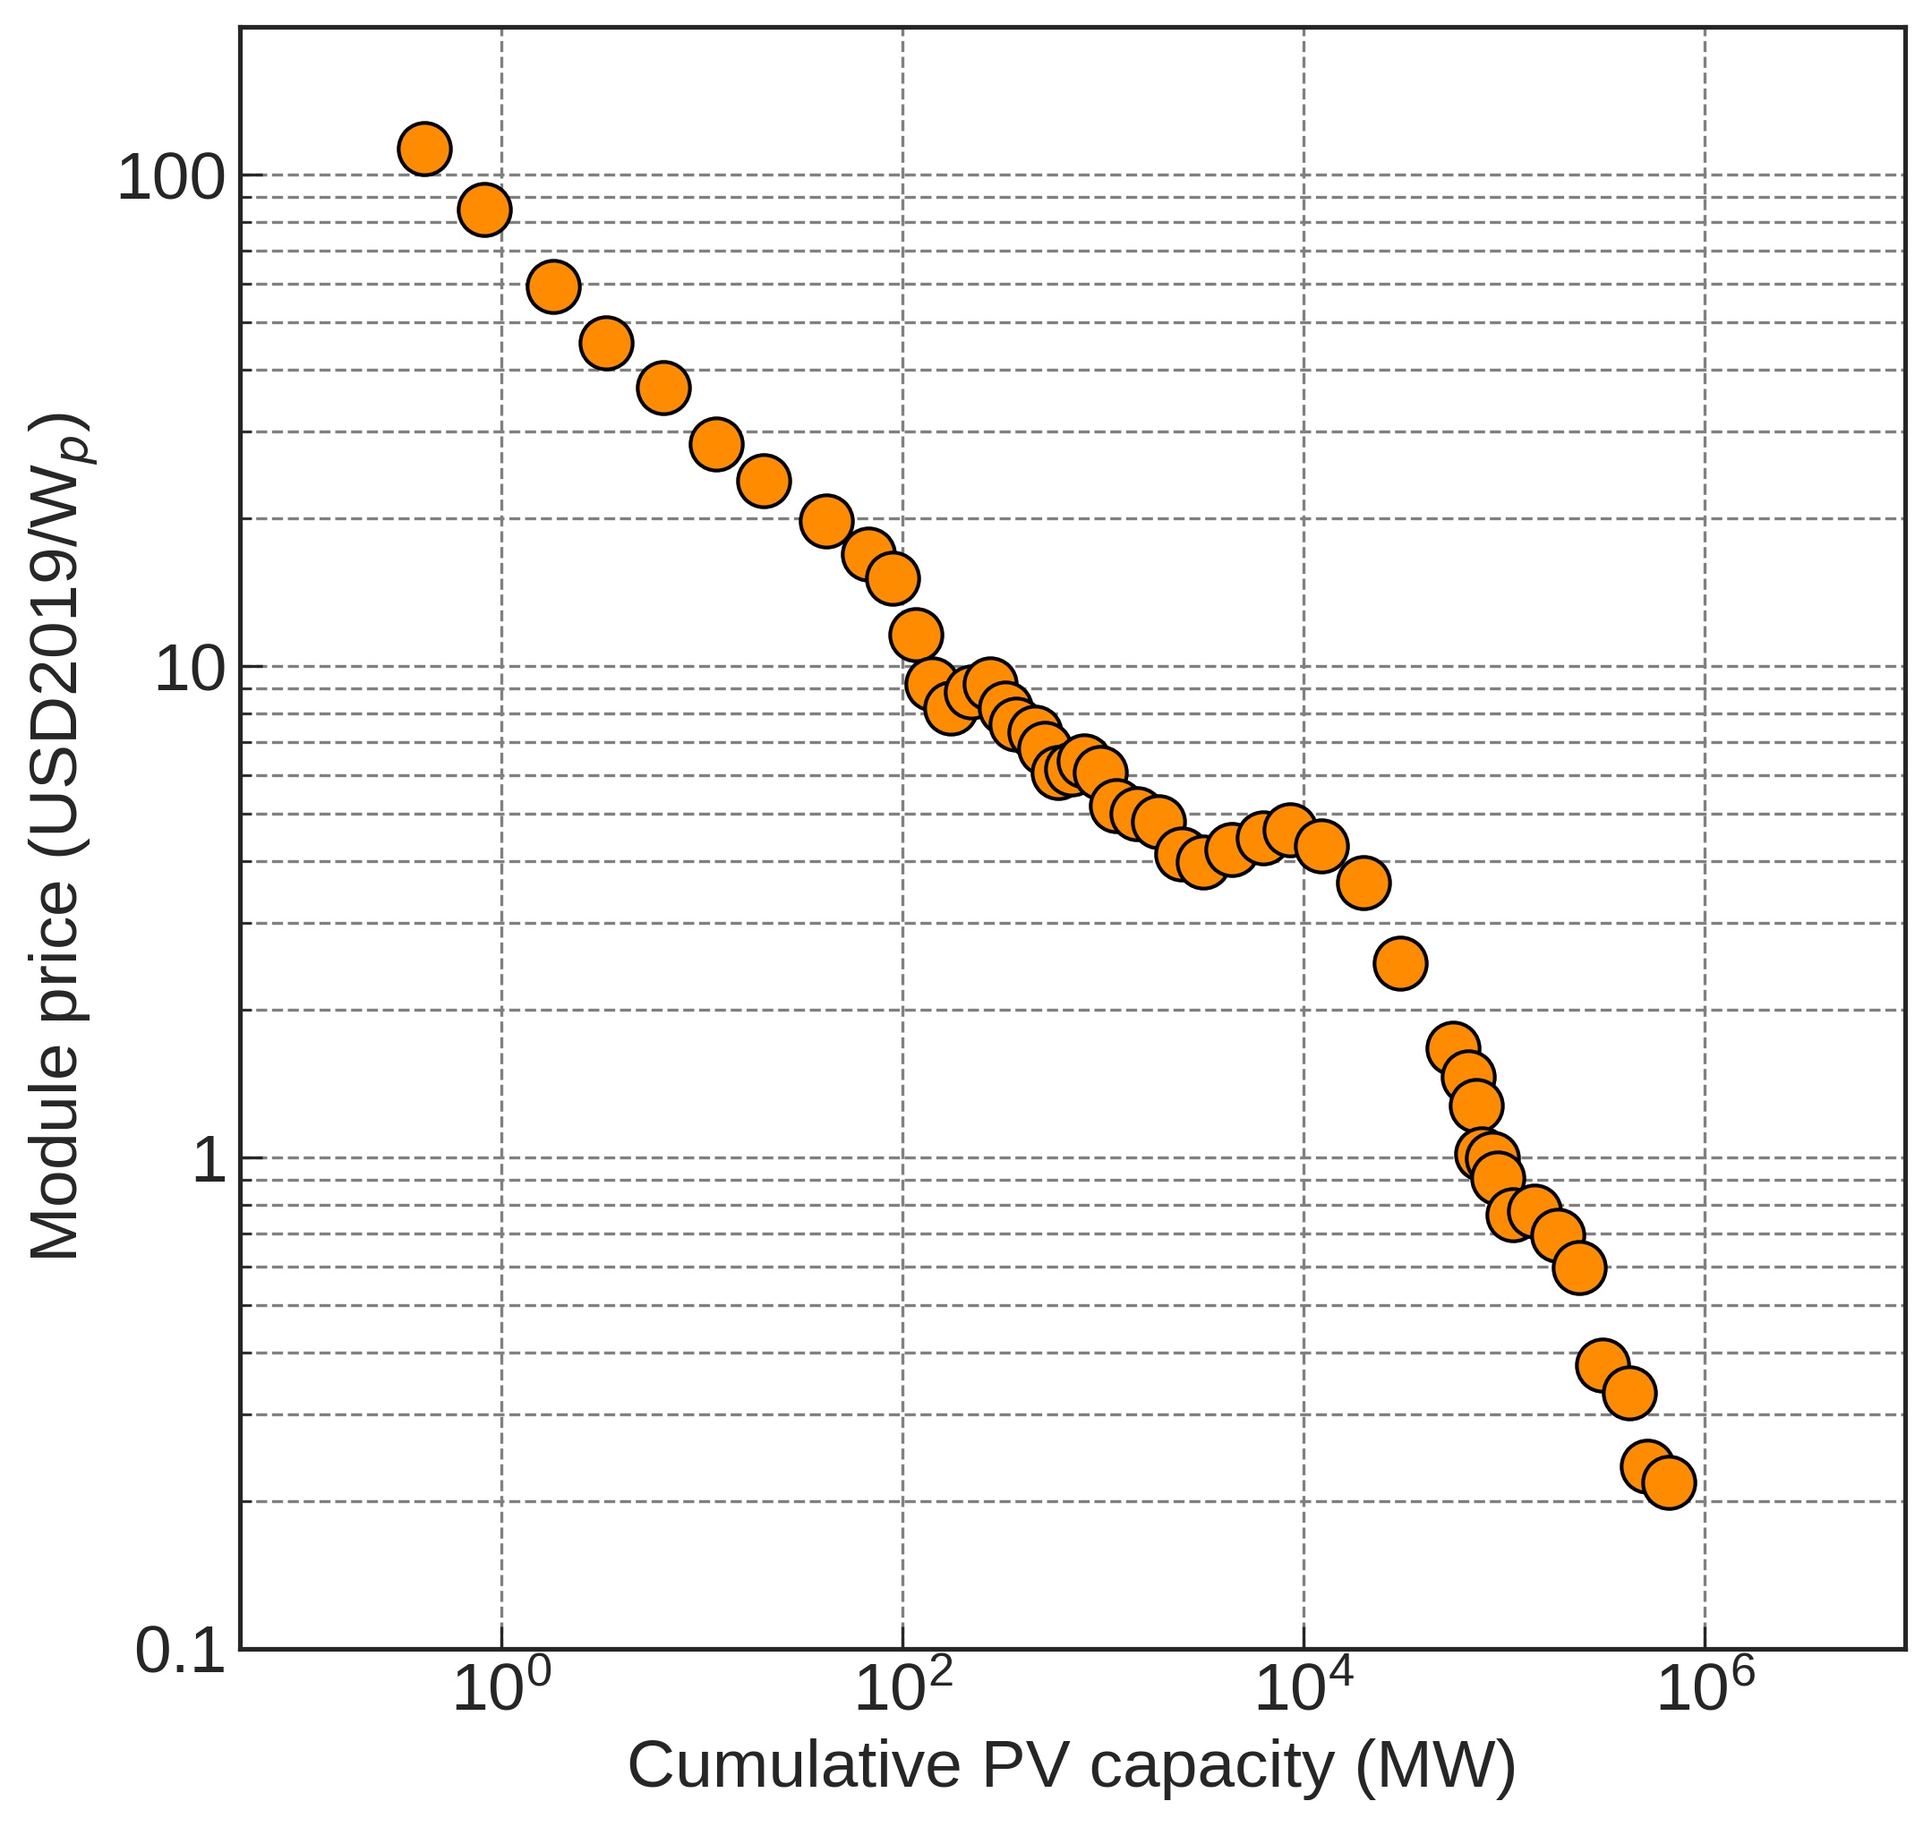
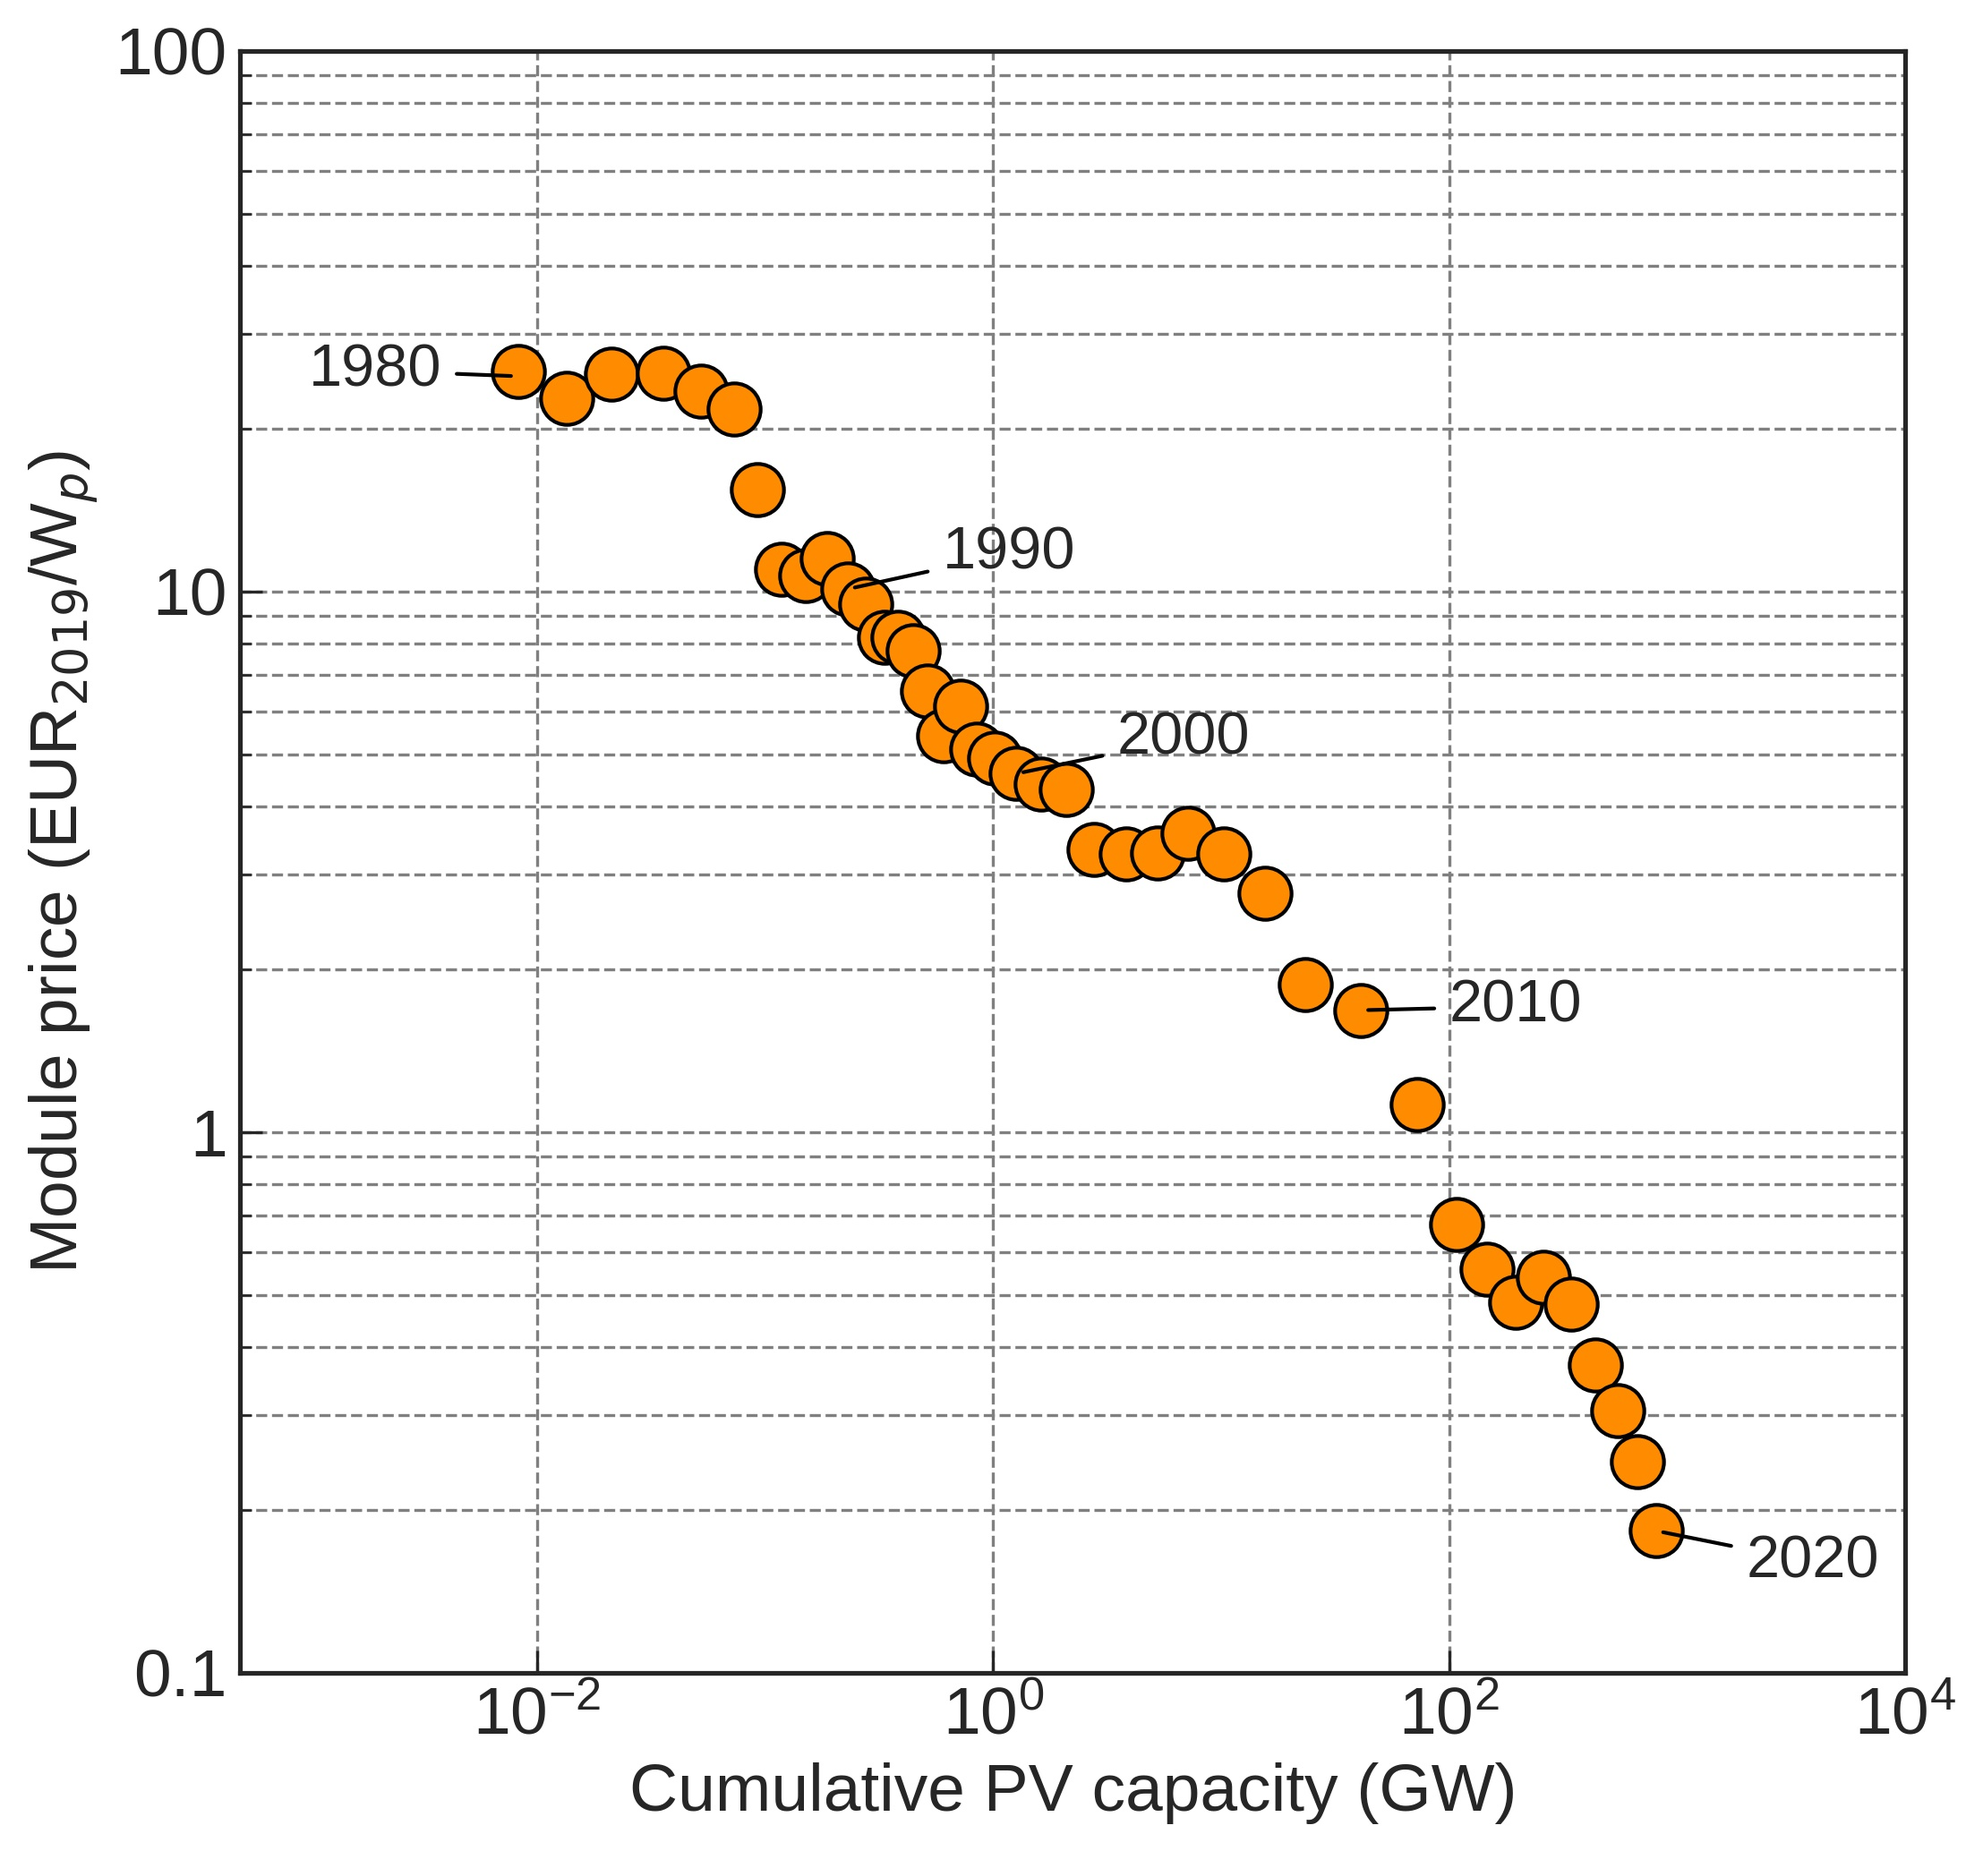
Add figures chapter 13

diff --git a/Figures/Chapter_13/learning_curve.py b/Figures/Chapter_13/learning_curve.py
@@ -21,12 +21,27 @@ ax1.loglog(cost['volume'], cost['cost'],
            marker='o', markerfacecolor=color_1,
            linewidth=0, color='black', #color_1,
            markersize=14)
-ax1.set_ylabel('Module price (USD2019/W$_p$)')
-ax1.set_xlabel('Cumulative PV capacity (MW)')
+ax1.set_ylabel('Module price (EUR$_{2019}$/W$_p$)')
+ax1.set_xlabel('Cumulative PV capacity (GW)')
 ax1.grid(color='grey', linestyle='--', axis='both', which='both')
-ax1.set_ylim(0.1,200)
-ax1.set_xlim(0.05, 10000000)
+ax1.set_ylim(0.1,30)
+ax1.set_xlim(0.0005, 10000)
 ax1.set_yticks([0.1, 1, 10, 100])
 ax1.set_yticklabels(['0.1', '1', '10', '100'])
 
+
+ax1.annotate('1980', xy=(0.0083, 25), xytext=(0.001, 24), fontsize=16,
+             arrowprops=dict(facecolor='black', arrowstyle='-'))
+
+ax1.annotate('1990', xy=(0.23, 10.1), xytext=(0.6, 11), fontsize=16,
+             arrowprops=dict(facecolor='black', arrowstyle='-'))
+
+ax1.annotate('2000', xy=(1.26, 4.6), xytext=(3.5, 5), fontsize=16,
+             arrowprops=dict(facecolor='black', arrowstyle='-'))
+
+ax1.annotate('2010', xy=(40.9, 1.68), xytext=(100, 1.6), fontsize=16,
+             arrowprops=dict(facecolor='black', arrowstyle='-'))
+
+ax1.annotate('2020', xy=(805, 0.183), xytext=(2000, 0.15), fontsize=16,
+             arrowprops=dict(facecolor='black', arrowstyle='-'))
 plt.savefig('figures/learning_curve.jpg', dpi=300, bbox_inches='tight')

diff --git a/Figures/Chapter_13/cost_split.py b/Figures/Chapter_13/cost_split.py
@@ -1,0 +1,41 @@
+# -*- coding: utf-8 -*-
+"""
+@author: Marta
+"""
+
+import pandas as pd
+import matplotlib.pyplot as plt
+import matplotlib.gridspec as gridspec
+plt.style.use(['seaborn-ticks','../pv-textbook.mplstyle'])
+
+
+cost_split=pd.read_csv('data/cost_split.csv', sep=',', header=0, index_col=0)
+cost_split.drop(index='Customer acquisition', inplace=True)
+cost_split.drop(index='Incentive application',inplace=True)
+cost_split['cost']=100*cost_split['cost']/cost_split.loc['Modules', 'cost']
+
+plt.figure(figsize=(16, 7))
+gs1 = gridspec.GridSpec(1, 1)
+gs1.update(wspace=0.4, hspace=0.2)
+
+ax1 = plt.subplot(gs1[0,0])
+bot=0
+for i,component in enumerate(cost_split.index):
+    ax1.barh([0], 
+             cost_split.loc[component,'cost']-bot, 
+             left=bot, 
+
+             color=cost_split.loc[component,'color'],
+             alpha=cost_split.loc[component,'alpha'],
+             label=component)
+    
+    bot=cost_split.loc[component,'cost']
+ax1.set_yticks([])
+ax1.set_xlim([0,100])
+ax1.set_ylim([-0.4,0.4])
+ax1.set_xlabel('Cost distribution (%)')
+#ax1.legend(fancybox=False, fontsize=18, loc=(0.1,1.05),
+#                   facecolor='white', ncol=3, frameon=True)
+ax1.legend(fancybox=False, fontsize=18, loc=(1.01,0.02), 
+                   facecolor='white', ncol=1, frameon=True)
+plt.savefig('figures/cost_split.jpg', dpi=300, bbox_inches='tight')  

diff --git a/Figures/Chapter_13/cost_PV_plants.py b/Figures/Chapter_13/cost_PV_plants.py
@@ -18,17 +18,21 @@ color_1='darkorange'
 
 ax1 = plt.subplot(gs1[0,0])
 
-years=np.arange(2010,2020)
-mean=[3.550, 2.971, 2.253,1.974,1.784, 1.359, 1.236, 1.068, 0.912, 0.751]
-max_value = [6.000, 5.800, 4.950, 4.000, 3.900, 3.050, 2.450, 2.250, 2.100, 1.700]
-min_value = [2.500, 1.950, 1.600, 1.250, 1.100, 0.900, 0.800, 0.650, 0.600, 0.500]
-ax1.set_ylabel('(EURO$_{2019}$/W$_p$)')
+years=np.arange(2010,2021)
+
+mean=[4.731, 4.007, 3.021, 2.647, 2.393, 1.823, 1.567, 1.432, 1.223, 1.009, 0.883]
+max_value = [6.000/0.9, 5.800/0.9, 4.950/0.9, 5.400, 5.300, 4.200, 3.300, 3.000, 2.750, 2.300, 2.300]
+min_value= [3.400, 2.600, 2.100, 1.7000, 1.400, 1.200, 1.100, 0.800, 0.7500, 0.700, 0.600]
+ax1.set_ylabel('(USD$_{2019}$/W$_p$)')
 ax1.plot(years, mean, color='black', linewidth=4,
          marker='o', markerfacecolor='white',markersize=12)
-ax1.fill_between(years, max_value, min_value, color=color_1, alpha=0.5)
 
-ax1.set_xlim(2010,2019)
+ax1.bar(years, max_value, bottom=min_value, color=color_1, alpha=0.5)
+
+ax1.set_xlim(2009,2021)
+ax1.set_ylim(0,8)
 ax1.set_xticks(years)
 ax1.set_xticklabels(years, rotation=45)
+ax1.yaxis.grid('--')
 
-plt.savefig('figures/cpst_PV_plants.jpg', dpi=300, bbox_inches='tight')  
+plt.savefig('figures/cost_PV_plants.jpg', dpi=300, bbox_inches='tight')  
